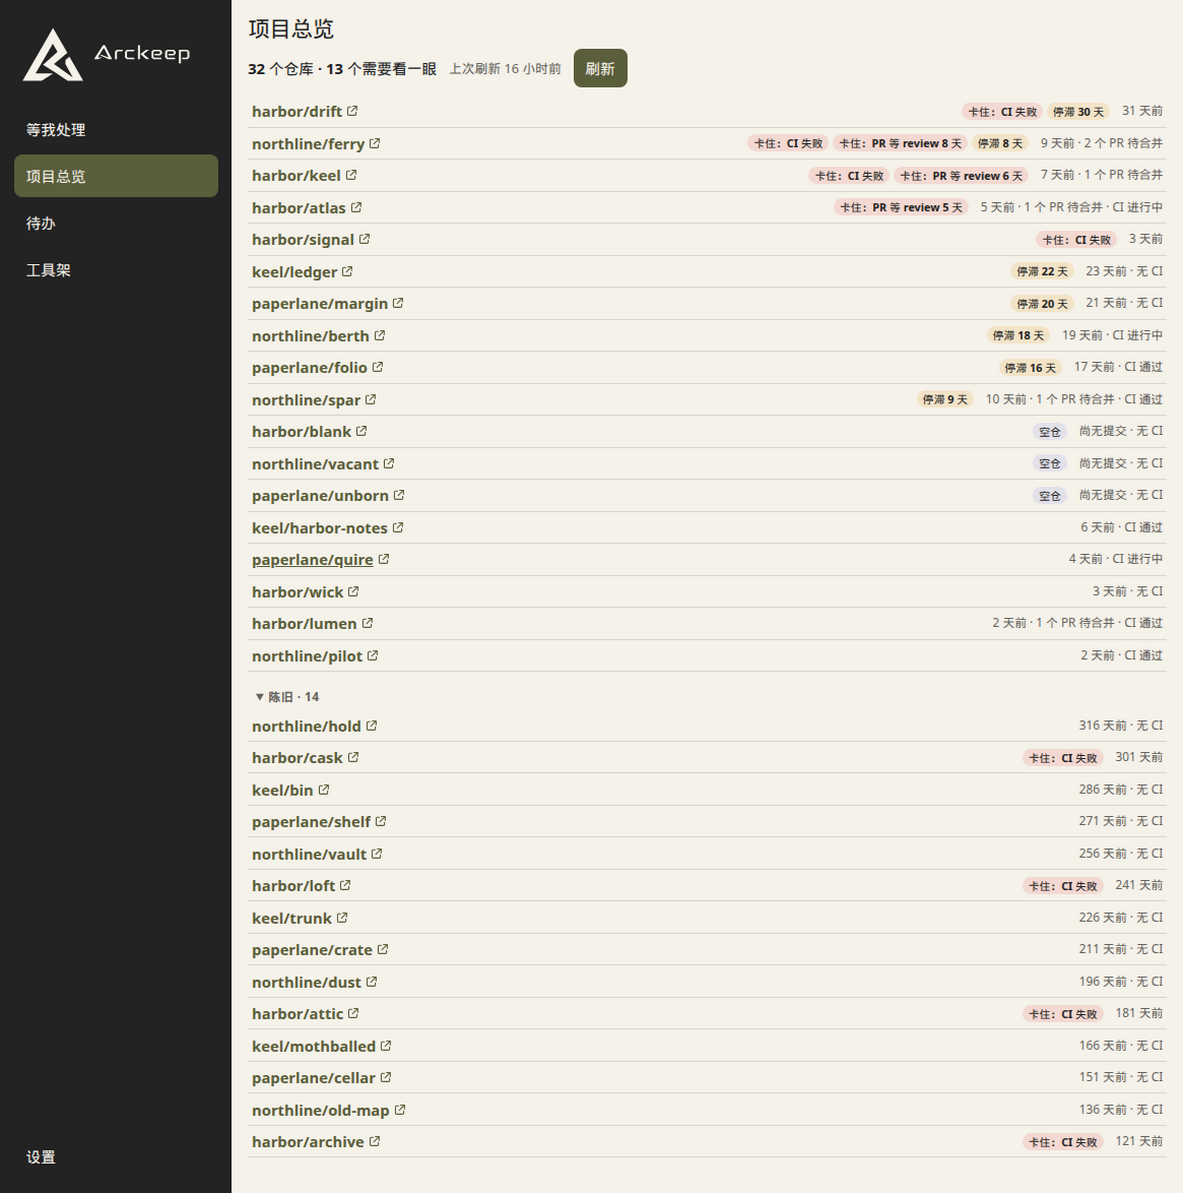
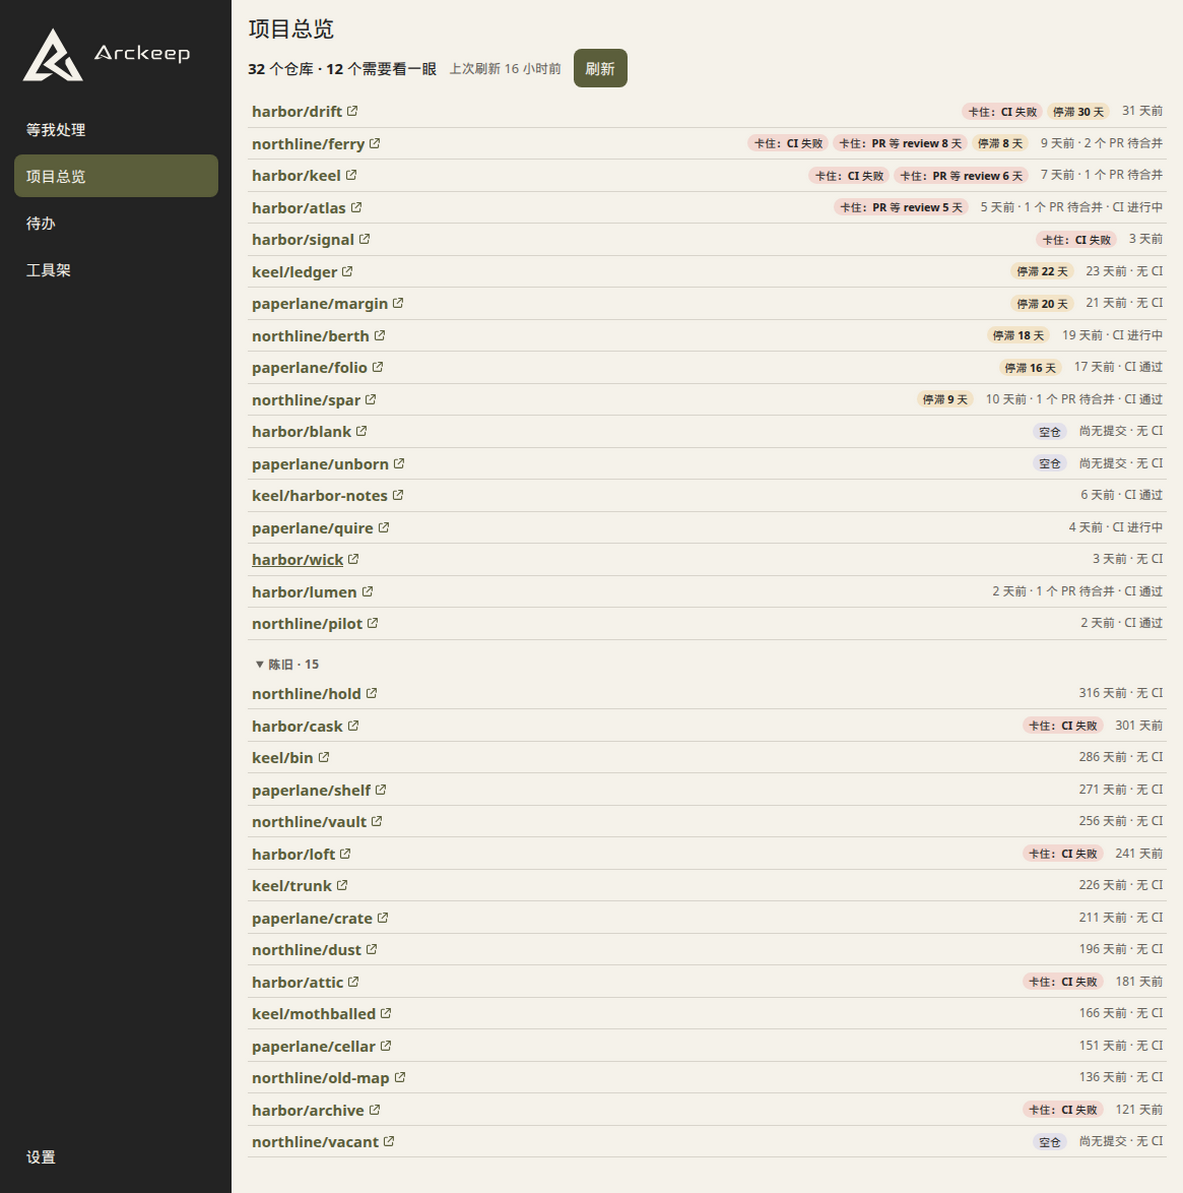
#3 空仓按创建和推送时间进入陈旧 (#21)
没有提交也没有 Issue/PR 活动的仓库不再一律算活跃。最近活动取最后提交、Issue/PR、pushed_at 和 created_at 里最新的一个，超过陈旧天数就进陈旧分组，顶部计数仍排除这些行。

diff --git a/test/overview.test.ts b/test/overview.test.ts
@@ -32,6 +32,7 @@ function facts(patch: Partial<OverviewRepoFacts> = {}): OverviewRepoFacts {
     sizeKb: 24,
     hasDefaultBranchCommit: true,
     pushedAt: ago(1),
+    createdAt: null,
     lastCommitAt: ago(1),
     lastIssueActivityAt: null,
     openPrCount: 0,
@@ -167,8 +168,17 @@ describe('overview warnings', () => {
     expect(kinds(classifyOverview([facts({ sizeKb: 0 })], rules, NOW)[0]!)).toContain('空仓')
     expect(kinds(classifyOverview([facts({ hasDefaultBranchCommit: false, lastCommitAt: null })], rules, NOW)[0]!)).toContain('空仓')
 
-    const ancient = classifyOverview([facts({
+    const pushedRecently = classifyOverview([facts({
       pushedAt: ago(1),
+      createdAt: ago(200),
+      lastCommitAt: ago(91),
+      lastIssueActivityAt: ago(91)
+    })], rules, NOW)[0]
+    expect(pushedRecently?.group).toBe('active')
+    expect(kinds(pushedRecently!)).toEqual(['停滞'])
+    const ancient = classifyOverview([facts({
+      pushedAt: ago(91),
+      createdAt: ago(200),
       lastCommitAt: ago(91),
       lastIssueActivityAt: ago(91)
     })], rules, NOW)[0]
@@ -423,6 +433,69 @@ describe('overview warnings', () => {
     expect(countsAsAttention(activeEmpty)).toBe(true)
     expect(overviewCounts([staleFailure, staleEmpty, activeEmpty, aged(29)])).toEqual({ repos: 4, attention: 2 })
   })
+
+  it('groups an empty repo by the newest of commit, issue activity, push, and creation', () => {
+    const rules = config()
+    const untouched = (createdDays: number, patch: Partial<OverviewRepoFacts> = {}) => classifyOverview([facts({
+      name: 'example/untouched',
+      url: 'https://github.com/example/untouched',
+      isEmpty: true,
+      sizeKb: 0,
+      hasDefaultBranchCommit: false,
+      pushedAt: null,
+      lastCommitAt: null,
+      lastIssueActivityAt: null,
+      createdAt: ago(createdDays),
+      ciState: 'none',
+      ...patch
+    })], rules, NOW)[0]!
+
+    const yearsOld = untouched(800)
+    expect(yearsOld.group).toBe('stale')
+    expect(kinds(yearsOld)).toEqual(['空仓', '陈旧'])
+    expect(kinds(yearsOld)).not.toContain('停滞')
+    expect(visibleWarningChips(yearsOld).map(item => item.kind)).toEqual(['空仓'])
+    expect(countsAsAttention(yearsOld)).toBe(false)
+    expect(overviewCounts([yearsOld])).toEqual({ repos: 1, attention: 0 })
+
+    const born29 = untouched(29)
+    const born30 = untouched(30)
+    const born31 = untouched(31)
+    expect(born29.group).toBe('active')
+    expect(born30.group).toBe('active')
+    expect(born31.group).toBe('stale')
+    expect(kinds(born29)).toEqual(['空仓'])
+    expect(kinds(born29)).not.toContain('停滞')
+    expect(kinds(untouched(6))).not.toContain('停滞')
+    expect(countsAsAttention(born29)).toBe(true)
+    expect(countsAsAttention(born31)).toBe(false)
+    expect(visibleWarningChips(born31).map(item => item.kind)).toEqual(['空仓'])
+    expect(overviewCounts([born29, born31])).toEqual({ repos: 2, attention: 1 })
+
+    const discussed = untouched(400, { lastIssueActivityAt: ago(10) })
+    expect(discussed.group).toBe('active')
+    expect(kinds(discussed)).toEqual(['空仓'])
+    expect(countsAsAttention(discussed)).toBe(true)
+    expect(overviewCounts([discussed])).toEqual({ repos: 1, attention: 1 })
+
+    const pushed = (days: number) => untouched(400, {
+      name: 'example/side-push',
+      url: 'https://github.com/example/side-push',
+      isEmpty: false,
+      sizeKb: 4,
+      pushedAt: ago(days)
+    })
+    const recentPush = pushed(5)
+    expect(recentPush.group).toBe('active')
+    expect(kinds(recentPush)).toEqual(['空仓'])
+    expect(kinds(recentPush)).not.toContain('停滞')
+    expect(countsAsAttention(recentPush)).toBe(true)
+    const oldPush = pushed(40)
+    expect(oldPush.group).toBe('stale')
+    expect(visibleWarningChips(oldPush).map(item => item.kind)).toEqual(['空仓'])
+    expect(countsAsAttention(oldPush)).toBe(false)
+    expect(overviewCounts([recentPush, oldPush])).toEqual({ repos: 2, attention: 1 })
+  })
 })
 
 describe('overview loading', () => {
@@ -568,6 +641,7 @@ describe('overview loading', () => {
       isEmpty: empty,
       diskUsage: empty ? 0 : 8,
       pushedAt: empty ? null : ago(days),
+      createdAt: empty ? ago(500) : ago(days),
       defaultBranchRef: empty ? null : { target: { oid: 'abc', committedDate: ago(days), statusCheckRollup: null } },
       pullRequests: { totalCount: 0, nodes: [] },
       issues: { nodes: [] },
@@ -625,14 +699,16 @@ describe('overview loading', () => {
     expect(queries.some(query => /watching\s*\(/.test(query))).toBe(false)
     expect(queries.some(query => query.includes('OWNER, COLLABORATOR, ORGANIZATION_MEMBER'))).toBe(true)
     expect(seen.sort()).toEqual(['blank', 'collab', 'member', 'owned'])
+    expect(queries.some(query => query.includes('\n  createdAt\n'))).toBe(true)
     expect(result.rows.map(row => [row.name, row.group])).toEqual([
       ['example/collab', 'active'],
-      ['example/blank', 'active'],
       ['example/owned', 'active'],
-      ['example/member', 'stale']
+      ['example/member', 'stale'],
+      ['example/blank', 'stale']
     ])
     expect(result.rows.some(row => row.name.includes('only-watch') || row.name.includes('reader') || row.name.includes('triage'))).toBe(false)
-    expect(overviewCounts(result.rows)).toEqual({ repos: 4, attention: 2 })
+    expect(visibleWarningChips(result.rows.find(row => row.name === 'example/blank')!).map(item => item.kind)).toEqual(['空仓'])
+    expect(overviewCounts(result.rows)).toEqual({ repos: 4, attention: 1 })
     expect(result.rows.find(row => row.name === 'example/collab')?.warnings.map(item => item.kind)).toEqual(['停滞'])
     expect(result.rows.find(row => row.name === 'example/member')?.warnings.map(item => item.kind)).toEqual(['陈旧'])
   })
@@ -840,12 +916,21 @@ describe('repository node', () => {
       isEmpty: false,
       diskUsage: 0,
       pushedAt: null,
+      createdAt: ago(3),
       defaultBranchRef: null,
       pullRequests: { totalCount: 0, nodes: [] }
     }, 'example/new')
     expect(parsed.hasDefaultBranchCommit).toBe(false)
+    expect(parsed.createdAt).toBe(ago(3))
     expect(parsed.sizeKb).toBe(0)
-    expect(kinds(classifyOverview([parsed], config(), NOW)[0]!)).toContain('空仓')
+    const fresh = classifyOverview([parsed], config(), NOW)[0]!
+    expect(fresh.group).toBe('active')
+    expect(kinds(fresh)).toEqual(['空仓'])
+    expect(kinds(fresh)).not.toContain('停滞')
+    const dormant = classifyOverview([{ ...parsed, createdAt: ago(400) }], config(), NOW)[0]!
+    expect(dormant.group).toBe('stale')
+    expect(countsAsAttention(dormant)).toBe(false)
+    expect(visibleWarningChips(dormant).map(item => item.kind)).toEqual(['空仓'])
   })
 
   it('reads issue and pull comment times as activity, not only the commit', () => {

diff --git a/src/renderer/overview-settings.ts b/src/renderer/overview-settings.ts
@@ -36,7 +36,7 @@ export function renderOverviewSettings(state: AppState, rerender: () => Promise<
   const card = el('section', { class: 'card', id: 'overview-settings' }, [
     el('h2', {}, ['项目总览']),
     el('p', { class: 'hint' }, [
-      '关注列表留空时走自动模式，收录你有写权限的全部仓库：你拥有的、你是协作者的、以及你作为组织成员并且有推送权限的。只 watch、没有写权限的仓库不会出现，已归档的仓库默认也不出现。有提交或 Issue/PR 活动还在陈旧天数以内的进活跃列表，更久的进「陈旧」。每个仓库都会落在这两组之一。天数对所有仓库一视同仁，不写死某个仓库。'
+      '关注列表留空时走自动模式，收录你有写权限的全部仓库：你拥有的、你是协作者的、以及你作为组织成员并且有推送权限的。只 watch、没有写权限的仓库不会出现，已归档的仓库默认也不出现。没有单独的最近推送窗口。最近活动取最后一次提交、最近的 Issue/PR 活动、仓库推送时间和仓库创建时间里最新的一个（缺了哪项就跳过）；还在陈旧天数以内的进活跃列表，更久的进「陈旧」。每个未归档仓库都会落在这两组之一。天数对所有仓库一视同仁，不写死某个仓库。'
     ])
   ])
   const staleDays = numberField('停滞天数', config.staleDays)
@@ -68,7 +68,7 @@ export function renderOverviewSettings(state: AppState, rerender: () => Promise<
   card.append(
     el('h3', {}, ['停滞天数']),
     el('p', { class: 'hint' }, [
-      `默认 ${DEFAULT_STALE_DAYS} 天，只判活跃列表里的仓库。默认分支上的最后一次提交，以及 Issue / PR 的创建、更新和评论，两边都满了这么多天才标成停滞；有一边还在这段时间里就不算。行上的「停滞 X 天」按较新的那一边计算。陈旧分组里的仓库不再标停滞。`
+      `默认 ${DEFAULT_STALE_DAYS} 天，只判活跃列表里的仓库。默认分支上的最后一次提交，以及 Issue / PR 的创建、更新和评论，两边都满了这么多天才标成停滞；有一边还在这段时间里就不算。行上的「停滞 X 天」按较新的那一边计算。陈旧分组里的仓库不再标停滞。刚创建、还没有任何提交或 Issue/PR 活动的空仓不算停滞。`
     ]),
     staleDays,
     el('h3', {}, ['review 等待天数']),
@@ -76,7 +76,7 @@ export function renderOverviewSettings(state: AppState, rerender: () => Promise<
     reviewWaitDays,
     el('h3', {}, ['陈旧天数']),
     el('p', { class: 'hint' }, [
-      `默认 ${DEFAULT_STALE_REPO_DAYS} 天。看默认分支提交和 Issue / PR 活动里较新的那个时间：还在这么多天以内（含刚好这么多天）留在活跃列表，再久就收进可折叠的陈旧分组。页头「需要看一眼」不算陈旧分组里的仓库。`
+      `默认 ${DEFAULT_STALE_REPO_DAYS} 天。最近活动是最后一次提交、最近的 Issue / PR 活动、仓库推送时间和仓库创建时间里最新的一个。还在这么多天以内（含刚好这么多天）留在活跃列表，再久就收进可折叠的陈旧分组。页头「需要看一眼」不算陈旧分组里的仓库。陈旧的空仓不计入，行里仍显示「空仓」。`
     ]),
     staleRepoDays,
     el('label', { class: 'check' }, [showArchived, '显示已归档的仓库']),

diff --git a/src/shared/overview/classify.ts b/src/shared/overview/classify.ts
@@ -72,18 +72,32 @@ export function stallBasisOf(facts: Pick<OverviewRepoFacts, 'lastCommitAt' | 'la
 }
 
 /**
- * Active when the newer of the default-branch commit and issue/PR activity is
- * within `staleRepoDays` (that exact age still counts as active). Older than
- * that, the row is 陈旧. Missing activity stays active so a new empty repo is visible.
+ * Newest of the default-branch commit, issue/PR activity, repository push, and
+ * repository creation. Missing timestamps are skipped.
+ */
+export function recentActivityAt(facts: {
+  lastCommitAt?: string | null
+  lastIssueActivityAt?: string | null
+  pushedAt?: string | null
+  createdAt?: string | null
+}): string | null {
+  return [facts.lastCommitAt, facts.lastIssueActivityAt, facts.pushedAt, facts.createdAt]
+    .reduce<string | null>((best, value) => laterIso(best, value ?? null), null)
+}
+
+/**
+ * Active when the newest activity timestamp is within `staleRepoDays` (that
+ * exact age still counts as active). Older than that, the row is 陈旧. A repo
+ * with no timestamps at all stays active.
  */
 export function overviewGroup(
-  facts: Pick<OverviewRepoFacts, 'archived' | 'error' | 'lastCommitAt' | 'lastIssueActivityAt'>,
+  facts: Pick<OverviewRepoFacts, 'archived' | 'error' | 'lastCommitAt' | 'lastIssueActivityAt' | 'pushedAt' | 'createdAt'>,
   config: OverviewConfig,
   now: Date
 ): OverviewGroup {
   if (facts.archived) return 'archived'
   if (facts.error) return 'active'
-  const at = stallBasisOf(facts).at
+  const at = recentActivityAt(facts)
   if (!at) return 'active'
   if (waitingDays(at, now) > config.staleRepoDays) return 'stale'
   return 'active'
@@ -148,6 +162,7 @@ export function classifyRepo(
 
   const empty = isEmptyRepo(facts)
   const stale = group === 'stale'
+  const activityAt = recentActivityAt(facts)
   const stalledDays = stallBasis.at ? waitingDays(stallBasis.at, now) : 0
   const stalled = group === 'active' && !empty && Boolean(stallBasis.at) && stalledDays >= config.staleDays
   const stuck = facts.pullRequests
@@ -193,12 +208,12 @@ export function classifyRepo(
       urls: [facts.url]
     }))
   }
-  if (stale && stallBasis.at) {
+  if (stale && activityAt) {
     warnings.push(warning({
       kind: '陈旧',
       label: '陈旧',
-      days: waitingDays(stallBasis.at, now),
-      hint: `提交和 Issue/PR 活动超过 ${config.staleRepoDays} 天`,
+      days: waitingDays(activityAt, now),
+      hint: `最近活动超过 ${config.staleRepoDays} 天`,
       urls: [facts.url]
     }))
   }

diff --git a/src/main/screenshot-scene.ts b/src/main/screenshot-scene.ts
@@ -44,6 +44,7 @@ export const SCREENSHOT_SCENES = [
   'overview-row-error',
   'overview-narrow',
   'overview-chip-hover',
+  'overview-settings',
   ...TOOL_SCREENSHOT_SCENES
 ] as const
 
@@ -82,6 +83,7 @@ export function screenshotWindowSize(scene: ScreenshotScene): { width: number, h
   if (scene === 'waiting-hidden') return { width: 1180, height: 980 }
   if (scene === 'waiting-watch' || scene === 'waiting-family') return { width: 1180, height: 720 }
   if (scene === 'overview-archived') return { width: 1180, height: 820 }
+  if (scene === 'overview-settings') return { width: 1120, height: 1280 }
   if (scene === 'waiting' || scene === 'waiting-rate-limit' || scene === 'overview' || scene === 'overview-collapsed') return { width: 1180, height: 1680 }
   if (scene === 'nav' || scene === 'todos-empty') return { width: 1120, height: 760 }
   if (scene === 'todos' || scene === 'todos-filter' || scene === 'todos-delete') {
@@ -102,6 +104,7 @@ export function screenshotOpensSettings(scene: ScreenshotScene): boolean {
     || scene === 'connected'
     || scene === 'hotkey-conflict'
     || scene === 'hotkey-save-conflict'
+    || scene === 'overview-settings'
     || scene === 'tools-invalid'
 }
 
@@ -153,6 +156,7 @@ export function screenshotReadyText(scene: ScreenshotScene): string {
   if (scene === 'overview-invalid-token') return 'GitHub 认证无效或已过期'
   if (scene === 'overview-loading') return '正在刷新'
   if (scene === 'overview-row-error') return '仓库不存在或无权访问'
+  if (scene === 'overview-settings') return '没有单独的最近推送窗口'
   return '等我处理'
 }
 

diff --git a/src/shared/overview/sample.ts b/src/shared/overview/sample.ts
@@ -24,6 +24,7 @@ function repo(input: {
   owner: string
   name: string
   days?: number
+  createdDays?: number
   empty?: boolean
   sizeKb?: number | null
   commit?: boolean
@@ -43,6 +44,9 @@ function repo(input: {
     sizeKb: input.sizeKb === undefined ? (empty ? 0 : 128) : input.sizeKb,
     hasDefaultBranchCommit: hasCommit,
     pushedAt: input.days === undefined ? null : ago(input.days),
+    createdAt: input.createdDays !== undefined
+      ? ago(input.createdDays)
+      : input.days === undefined ? null : ago(input.days),
     lastCommitAt: hasCommit && input.days !== undefined ? ago(input.days) : null,
     lastIssueActivityAt: null,
     openPrCount: input.openPrCount ?? input.pulls?.length ?? 0,
@@ -67,7 +71,7 @@ export function sampleOverviewFacts(): OverviewRepoFacts[] {
     repo({ owner: 'northline', name: 'berth', days: 18, ci: 'pending' }),
     repo({ owner: 'keel', name: 'ledger', days: 22, ci: 'none' }),
     repo({ owner: 'harbor', name: 'blank', empty: true, days: 2, ci: 'none' }),
-    repo({ owner: 'northline', name: 'vacant', empty: true, sizeKb: 0, commit: false, ci: 'none' }),
+    repo({ owner: 'northline', name: 'vacant', empty: true, sizeKb: 0, commit: false, createdDays: 900, ci: 'none' }),
     repo({ owner: 'paperlane', name: 'unborn', days: 4, sizeKb: 40, commit: false, ci: 'none' }),
     repo({ owner: 'harbor', name: 'signal', days: 2, ci: 'failure' }),
     repo({ owner: 'northline', name: 'pilot', days: 1, ci: 'success' }),

diff --git a/src/shared/overview/types.ts b/src/shared/overview/types.ts
@@ -29,9 +29,11 @@ export interface OverviewConfig {
   /** Days an open non-draft pull request can wait for review before 卡住. */
   reviewWaitDays: number
   /**
-   * Days since the newer of the default-branch commit and issue/PR activity
-   * before a repo leaves the active list for the 陈旧 group. Age equal to this
-   * value stays active; only a greater age is 陈旧.
+   * Days since the newest of the default-branch commit, issue/PR activity,
+   * repository pushedAt, and repository createdAt before a repo leaves the
+   * active list for the 陈旧 group. Missing timestamps are skipped. Age equal
+   * to this value stays active; only a greater age is 陈旧. A repo with no
+   * timestamps at all stays active.
    */
   staleRepoDays: number
   maxScopeRepos: number
@@ -73,6 +75,8 @@ export interface OverviewRepoFacts {
   sizeKb: number | null
   hasDefaultBranchCommit: boolean
   pushedAt: string | null
+  /** Repository createdAt. Used when the repo has never been pushed or edited. */
+  createdAt: string | null
   /** Default-branch commit time. Not a push to some other branch. */
   lastCommitAt: string | null
   /**

diff --git a/src/main/screenshot-run.ts b/src/main/screenshot-run.ts
@@ -236,6 +236,27 @@ export async function presentScreenshot(options: {
         true
       `)
     }
+    if (scene === 'overview-settings') {
+      await contents.executeJavaScript(`
+        document.querySelector('#overview-settings')?.scrollIntoView({ block: 'start' })
+        true
+      `)
+      await waitUntil(contents, `(() => {
+        const card = document.querySelector('#overview-settings')
+        if (!card) return false
+        const text = card.innerText
+        const rect = card.getBoundingClientRect()
+        return text.includes('默认 7 天')
+          && text.includes('默认 30 天')
+          && text.includes('没有单独的最近推送窗口')
+          && !text.includes('推送窗口天数')
+          && !card.querySelector('[aria-label*="推送"]')
+          && rect.top >= -2
+          && rect.top < 120
+          && rect.bottom > 400
+          && rect.bottom <= window.innerHeight
+      })()`, 'overview settings')
+    }
     if (scene === 'overview-chip-hover') {
       await contents.executeJavaScript(`
         const chip = document.querySelector('a.chip-link')

diff --git a/src/overview/load.ts b/src/overview/load.ts
@@ -112,6 +112,7 @@ const REPO_FIELDS = `
   isEmpty
   isArchived
   diskUsage
+  createdAt
   pushedAt
   defaultBranchRef {
     target {
@@ -182,6 +183,7 @@ function errorFacts(name: string, message: string): OverviewRepoFacts {
     sizeKb: null,
     hasDefaultBranchCommit: false,
     pushedAt: null,
+    createdAt: null,
     lastCommitAt: null,
     lastIssueActivityAt: null,
     openPrCount: 0,
@@ -333,6 +335,7 @@ export function parseRepositoryNode(node: unknown, requestedName: string): Overv
     sizeKb,
     hasDefaultBranchCommit: Boolean(oid || committedDate),
     pushedAt: 'pushedAt' in node && typeof node.pushedAt === 'string' ? node.pushedAt : null,
+    createdAt: 'createdAt' in node ? readIso(node.createdAt) : null,
     lastCommitAt: committedDate,
     lastIssueActivityAt: readIssueActivity(node),
     openPrCount,

diff --git a/README.md b/README.md
@@ -30,8 +30,8 @@ npm run overview -- --json
 
 关注列表为空时走自动模式：列出你有写权限的全部仓库，也就是你拥有的、你是协作者的、以及你作为组织成员并且有推送权限的（`ADMIN` / `MAINTAIN` / `WRITE`）。只 watch、没有写权限的仓库不会出现，也不会计入页头数量。已归档仓库默认继续排除。没有单独的「最近 push」窗口。两个天数都可以在设置里改，默认是：
 
-- 陈旧 30 天。默认分支提交和 Issue / PR 活动（创建、更新、评论）里较新的那个还在 30 天以内（含刚好 30 天）就留在活跃列表；超过 30 天才进「陈旧」。每个未归档仓库都会落在这两组之一。
-- 停滞 7 天，只判活跃列表里的仓库。默认分支最后一次提交，以及 Issue / PR 活动，两边都满 7 天才算停滞；有一边还在 7 天内就不算。行上的「停滞 X 天」按较新的那一边计算。陈旧分组不再标停滞。
+- 陈旧 30 天。最近活动取最后一次提交、最近的 Issue / PR 活动（创建、更新、评论）、仓库推送时间和仓库创建时间里最新的一个，缺了哪项就跳过。还在 30 天以内（含刚好 30 天）就留在活跃列表；超过 30 天才进「陈旧」。每个未归档仓库都会落在这两组之一。没有提交、也没有 Issue/PR 的空仓不再一律算活跃：多年前创建、之后没动过的空仓进「陈旧」。
+- 停滞 7 天，只判活跃列表里的仓库。默认分支最后一次提交，以及 Issue / PR 活动，两边都满 7 天才算停滞；有一边还在 7 天内就不算。行上的「停滞 X 天」按较新的那一边计算。陈旧分组不再标停滞。刚创建、还没有任何提交或 Issue/PR 活动的空仓不算停滞。
 - 页头「需要看一眼」不算陈旧分组里的任何仓库，包括陈旧的空仓和陈旧仓库上的 CI 失败。这些提醒仍显示在行里。空仓只有留在活跃列表时才计入，并且行里仍显示「空仓」。
 
 设置写在 `app.getPath('userData')`。应用启动时把该目录指到 `%APPDATA%\Arckeep\`（目录名是 `Arckeep`，不是 package 名的小写）。GitHub token 经 Electron `safeStorage` 加密后写入 `settings.json`，不写日志、不以明文落盘。本机 `gh auth token` 可用时优先使用 gh CLI，不把这份 token 再存一份。
